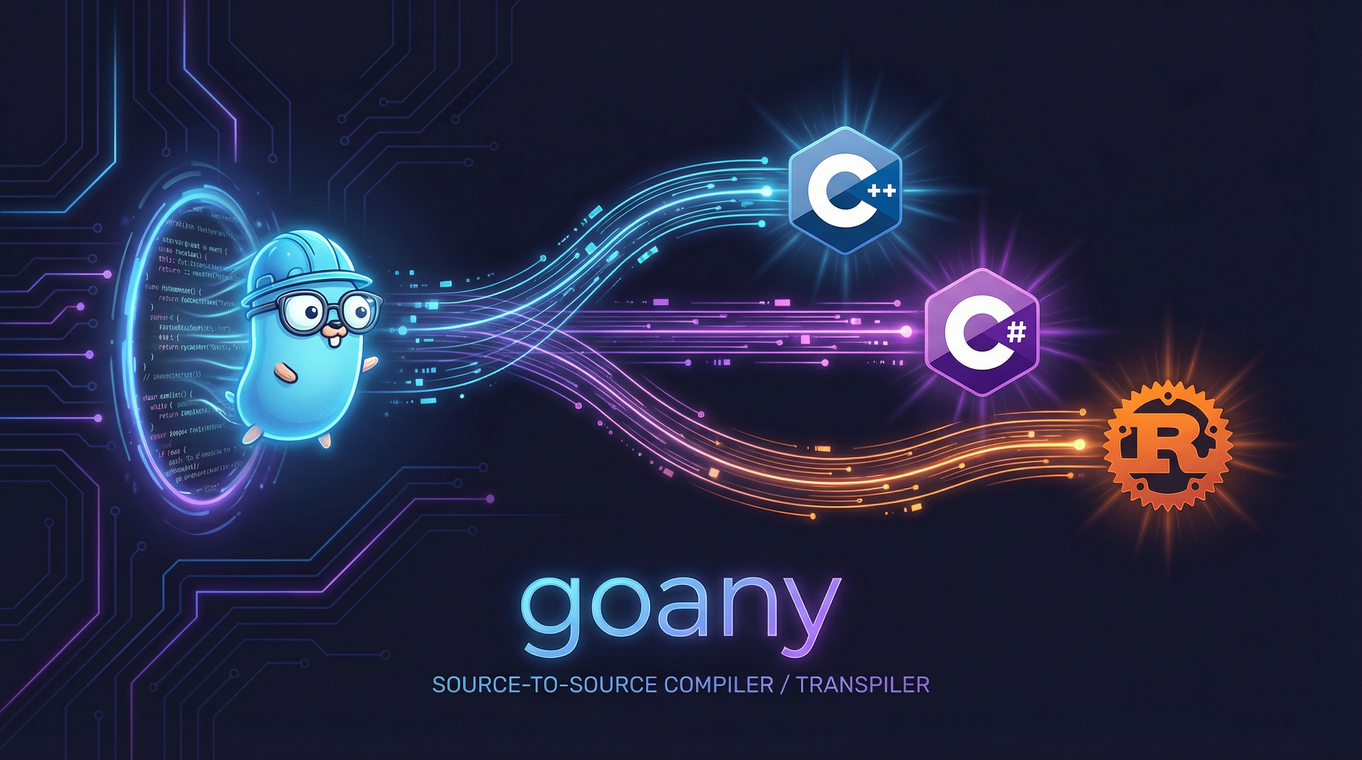
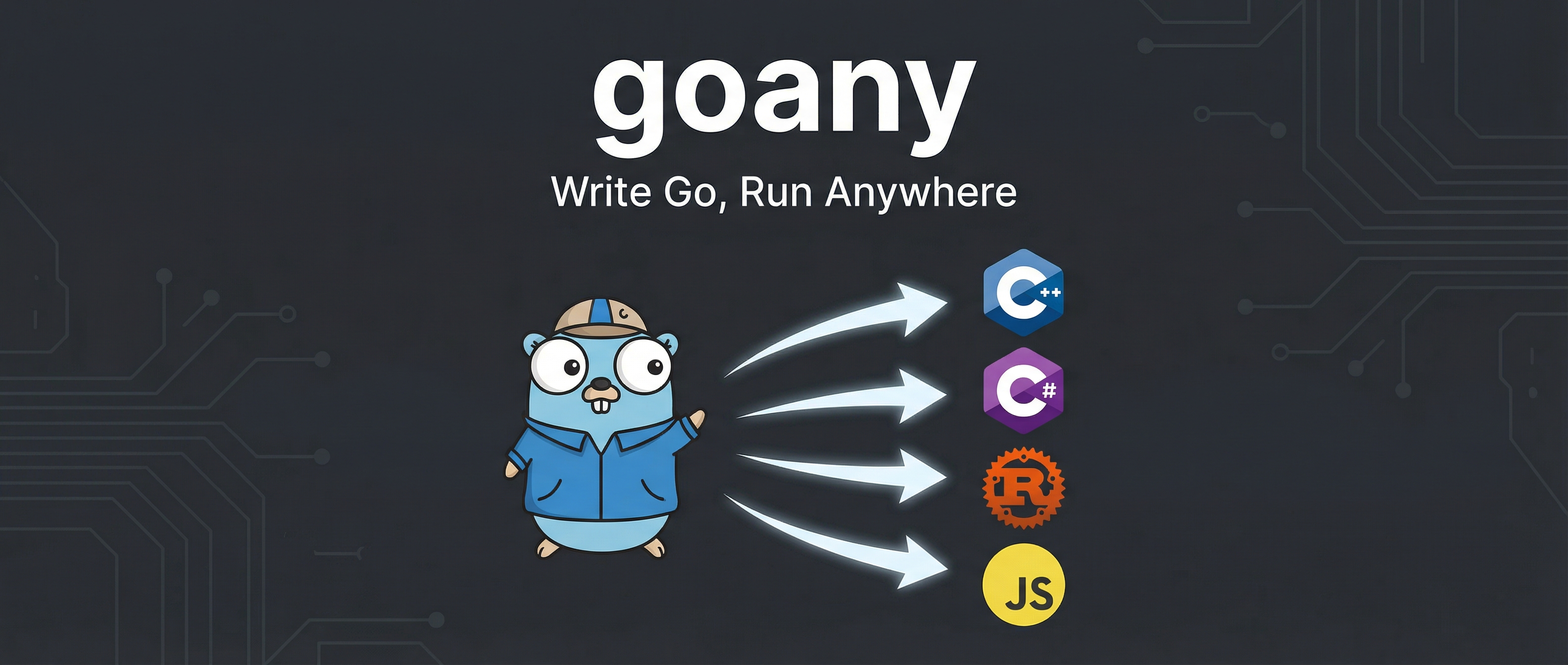
Update readme with c64 demo link

diff --git a/README.md b/README.md
@@ -2,7 +2,9 @@
 
 ![goany banner](docs/goany-banner.png)
 
-A Go language transpiler that generates portable code for multiple target platforms. Write your code once in Go and transpile it to C++, C#, or Rust.
+A Go language transpiler that generates portable code for multiple target platforms. Write your code once in Go and transpile it to C++, C#, Rust, or JavaScript.
+
+[**▶ Try the C64 Emulator Demo WIP (runs in browser)**](https://pdelewski.github.io/goany/demos/c64.html)
 
 ## Overview
 
@@ -11,6 +13,7 @@ This project provides a foundation for writing portable libraries in Go that can
 - **C++** - generates `.cpp` files
 - **C#** (.NET) - generates `.cs` files
 - **Rust** - generates `.rs` files
+- **JavaScript** - generates `.js` files (runs in browser with Canvas API)
 
 ## Project Goals
 
@@ -18,7 +21,7 @@ The main aim of goany is to provide a tool for writing **portable applications a
 
 ### Key Objectives
 
-1. **Cross-language portability** - Write code once and transpile it to C++, Rust, and C#/.NET, enabling code reuse across different ecosystems and platforms.
+1. **Cross-language portability** - Write code once and transpile it to C++, Rust, C#/.NET, and JavaScript, enabling code reuse across different ecosystems and platforms.
 
 2. **Near 1-to-1 translation** - The generated code maintains almost direct correspondence to the original source, making it readable, debuggable, and easy to understand.
 
@@ -69,7 +72,7 @@ make
 |------|-------------|---------|
 | `-source` | Source directory containing Go files | (required) |
 | `-output` | Output file name (without extension) | (required) |
-| `-backend` | Backend(s) to use: `all`, `cpp`, `cs`, `rust` | `all` |
+| `-backend` | Backend(s) to use: `all`, `cpp`, `cs`, `rust`, `js` | `all` |
 | `-link-runtime` | Path to runtime for linking (generates build files with include paths) | (none) |
 | `-graphics-runtime` | Graphics backend: `tigr`, `sdl2`, `none` | `tigr` |
 | `-debug` | Enable debug output | `false` |
@@ -96,6 +99,11 @@ Transpile to Rust only:
 Transpile to C# and Rust:
 ```bash
 ./goany -source=../examples/uql -output=uql -backend=cs,rust
+```
+
+Transpile to JavaScript (runs in browser):
+```bash
+./goany -source=../examples/mos6502/cmd/c64 -output=c64 -backend=js -link-runtime=../runtime
 ```
 
 Transpile graphics demo with tigr (default):
@@ -156,14 +164,16 @@ arr = newArr
 
 A cross-platform 2D graphics library for window creation and drawing shapes.
 
-#### Transpiled Code (C++, C#, Rust)
+#### Transpiled Code (C++, C#, Rust, JavaScript)
 
-Two backends are available for transpiled code, selected via `-graphics-runtime` flag:
+Two backends are available for native transpiled code, selected via `-graphics-runtime` flag:
 
 | Backend | Platforms | Dependencies | Notes |
 |---------|-----------|--------------|-------|
 | `tigr` | C++, C#, Rust | C compiler (bundled source) | Default, lightweight |
 | `sdl2` | C++, C#, Rust | SDL2 library | Hardware accelerated, full-featured |
+
+**JavaScript** uses the HTML5 Canvas API and runs directly in the browser - no external dependencies required.
 
 **Setup SDL2 dependencies (only needed for `-graphics-runtime=sdl2`):**
 ```bash
@@ -224,6 +234,7 @@ goany/
 │   ├── rust_emitter.go    # Rust backend
 │   ├── csharp_emitter.go  # C# backend
 │   ├── cpp_emitter.go     # C++ backend
+│   ├── js_emitter.go      # JavaScript backend
 │   ├── base_pass.go       # Pass infrastructure
 │   ├── emitter.go         # Emitter interface
 │   └── astyle/            # Code formatting (CGO)
